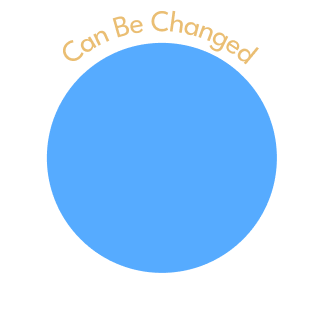
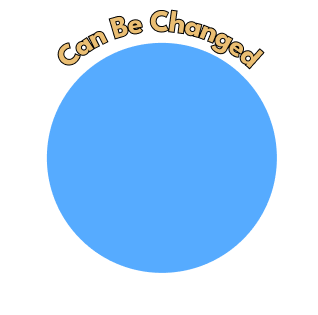
style: update homepage image and life stage indicators
Updated the homepage 'Can Be Changed' image and added arrows to the life stages to indicate clickability.

Changed region(s): [[0.1698, 0.0286, 0.8491, 0.2286]]

diff --git a/biomod-wiki/src/features/home/Home.jsx b/biomod-wiki/src/features/home/Home.jsx
@@ -81,9 +81,9 @@ export default function Home() {
 
     /*The "can be changed" risk-factor buttons. The clicked one stays highlighted (styles.selected) until another is picked.*/
     const lifeStages = [
-        {id: "early", label: "Early Life"},
-        {id: "mid", label: "Midlife"},
-        {id: "late", label: "Later Life"},
+        {id: "early", label: "➤ Early Life"},
+        {id: "mid", label: "➤ Midlife"},
+        {id: "late", label: "➤ Later Life"},
     ]
     const [selectedLifestage, setSelectedLifestage] = useState("select")
     const [selectedComponent, setSelectedComponent] = useState(null)
